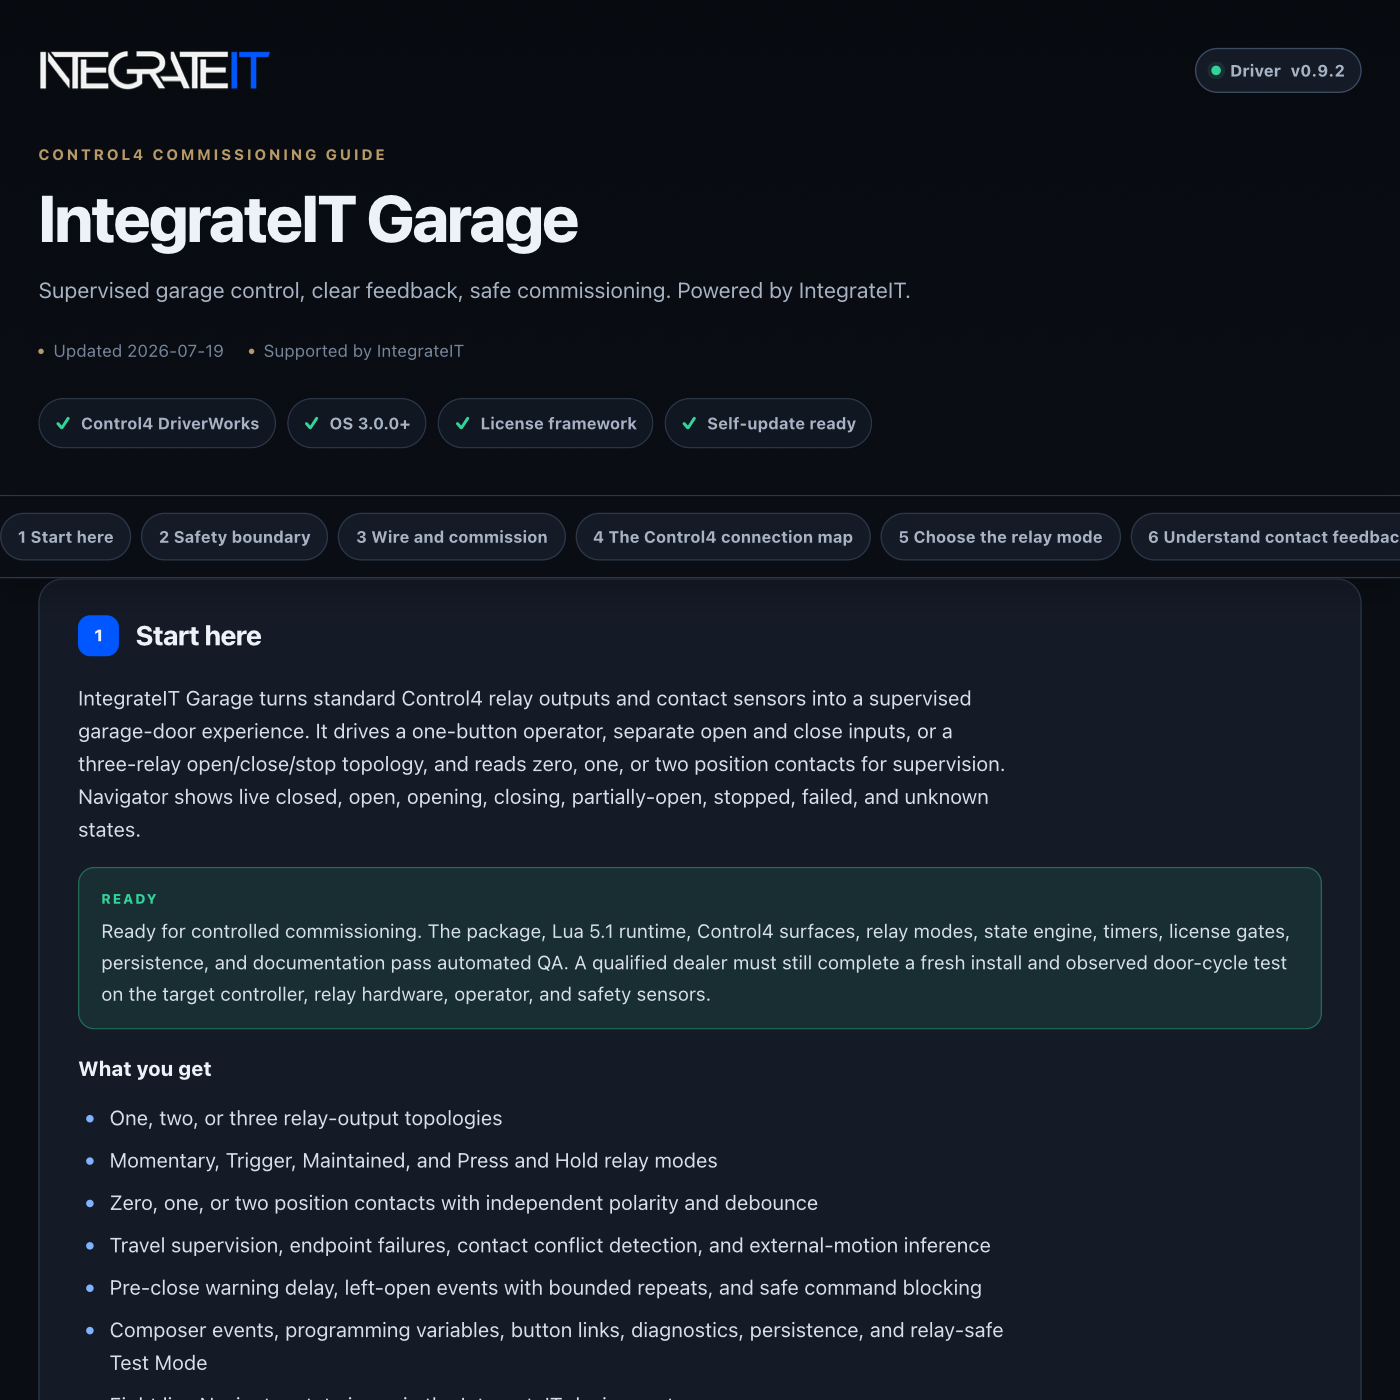
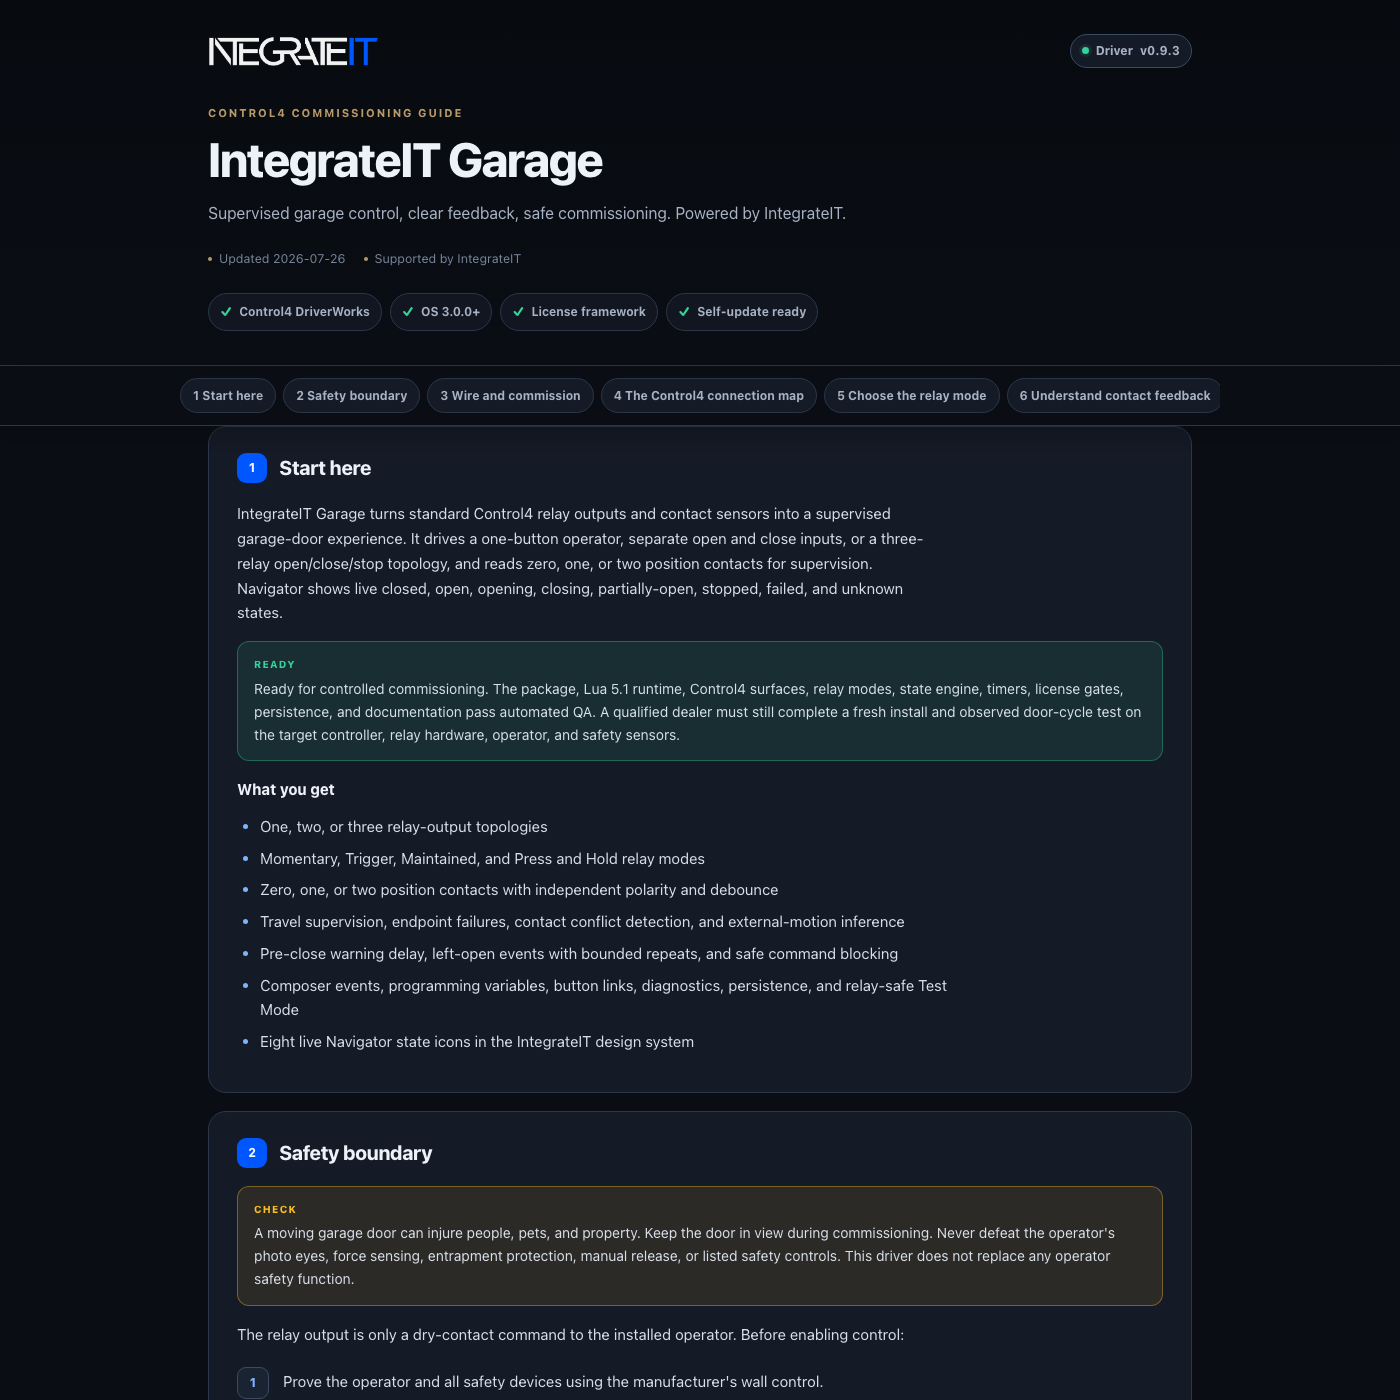
control4: publish driver channel (integrateit_garage 0.9.4)

diff --git a/control4/integrateit_garage/documentation.html b/control4/integrateit_garage/documentation.html
@@ -179,13 +179,13 @@ td code{white-space:normal}
     <div class="wrap">
       <div class="brandbar">
[1 lines of base64/hex data omitted]
-        <span class="version"><span class="word">Driver</span> v0.9.3</span>
+        <span class="version"><span class="word">Driver</span> v0.9.4</span>
       </div>
       <p class="eyebrow">Control4 commissioning guide</p>
       <h1>IntegrateIT Garage</h1>
       <p class="sub">Supervised garage control, clear feedback, safe commissioning. Powered by IntegrateIT.</p>
       <div class="meta">
-        <span>Updated 2026-07-26</span>
+        <span>Updated 2026-07-31</span>
         <span>Supported by IntegrateIT</span>
       </div>
       <div class="readiness" aria-label="Driver capabilities">
@@ -198,7 +198,7 @@ td code{white-space:normal}
   </header>
 
   <div class="toc-wrap">
-    <nav class="toc wrap" aria-label="Documentation sections"><a href="#overview">1 Start here</a><a href="#safety">2 Safety boundary</a><a href="#setup">3 Wire and commission</a><a href="#connections">4 The Control4 connection map</a><a href="#relays">5 Choose the relay mode</a><a href="#contacts">6 Understand contact feedback</a><a href="#programming">7 Program the project</a><a href="#supervision">8 Supervision and alerts</a><a href="#testing">9 Test without moving the door</a><a href="#status">10 Read status at a glance</a><a href="#troubleshooting">11 Troubleshoot methodically</a><a href="#trust">12 Ownership, privacy, and licensing</a><a href="#reference">R Reference</a><a href="#licensing">L Licensing</a><a href="#updates">U Automatic updates</a><a href="#changelog">V Version history</a></nav>
+    <nav class="toc wrap" aria-label="Documentation sections"><a href="#overview">1 Start here</a><a href="#safety">2 Safety boundary</a><a href="#setup">3 Wire and commission</a><a href="#connections">4 The Control4 connection map</a><a href="#relays">5 Choose the relay mode</a><a href="#contacts">6 Understand contact feedback</a><a href="#programming">7 Program the project</a><a href="#supervision">8 Supervision and alerts</a><a href="#testing">9 Test without moving the door</a><a href="#status">10 Read status at a glance</a><a href="#troubleshooting">11 Troubleshoot methodically</a><a href="#trust">12 Ownership, privacy, and licensing</a><a href="#reference">R Reference</a><a href="#licensing">L Licensing</a><a href="#updates">U Automatic updates</a><a href="#diagnostics">D Diagnostics and self-test</a><a href="#changelog">V Version history</a></nav>
   </div>
 
   <main class="wrap">
@@ -229,7 +229,7 @@ td code{white-space:normal}
     <li>Use <b>Test Mode</b> to validate programming and Navigator states without energizing any relay.</li>
     <li>Re-enable control only when the work area is clear and the installer can observe a complete cycle.</li>
   </ol>
-  <p>For an unattended close workflow, use the operator's approved warning and safety accessories. The driver's <b>Close Warning Delay</b> is an automation event and delay, not an audible or visual safety device by itself.</p>
+  <p>For an unattended close workflow, use the operator's approved warning and safety accessories. The driver's <b>Close Warning Delay (s)</b> is an automation event and delay, not an audible or visual safety device by itself.</p>
 </section>
 
 <section class="card" id="setup" data-card="setup">
@@ -267,7 +267,7 @@ td code{white-space:normal}
   <h2><span class="n">5</span> Choose the relay mode</h2>
   <table>
     <tr><th>Mode</th><th>Output behavior</th><th>Typical use</th></tr>
-    <tr><td><code>Momentary</code></td><td>Active command, then release after Pulse Length</td><td>Most wall-button and dry-contact inputs</td></tr>
+    <tr><td><code>Momentary</code></td><td>Active command, then release after <b>Pulse Length (ms)</b></td><td>Most wall-button and dry-contact inputs</td></tr>
     <tr><td><code>Trigger</code></td><td>Control4 <code>TRIGGER</code> with exact <code>TIME</code> in milliseconds</td><td>Native Control4 relay pulse</td></tr>
     <tr><td><code>Maintained</code></td><td>Holds or releases the direction output</td><td>Operators that explicitly require maintained contacts</td></tr>
     <tr><td><code>Press and Hold</code></td><td>Active command, then release after 1 to 120 seconds</td><td>Interfaces that require an extended button press</td></tr>
@@ -317,15 +317,15 @@ td code{white-space:normal}
   <ul>
     <li>When <b>Garage Door Left Open</b> fires → announce on the kitchen touch screen and turn on the driveway lights; read <code>Left Open Notices</code> to escalate only on a repeat.</li>
     <li>When <b>Garage Door Opened</b> fires and <code>IS_MOVING</code> is false → run a "someone's home" scene once the door has settled.</li>
-    <li>On a "Goodnight" event → call <b>Close Garage Door</b>. With <b>Close Warning Delay</b> set, <b>Garage Close Warning</b> fires first, so a chime or light can run before the door actually moves.</li>
+    <li>On a "Goodnight" event → call <b>Close Garage Door</b>. With <b>Close Warning Delay (s)</b> set, <b>Garage Close Warning</b> fires first, so a chime or light can run before the door actually moves.</li>
   </ul>
 </section>
 
 <section class="card" id="supervision" data-card="supervision">
   <h2><span class="n">8</span> Supervision and alerts</h2>
-  <p><b>Expected Open Time</b> and <b>Expected Close Time</b> supervise every commanded or inferred movement. An endpoint contact ends supervision immediately. At timeout, the driver either estimates an unobserved endpoint or fires a failure event when the configured contacts should have proved it.</p>
-  <p><b>Left Open Time</b> starts when the state leaves Closed. Set it to zero to disable. <b>Left Open Repeat Count</b> adds a bounded number of notices at the same interval. Returning to Closed cancels the timer and resets the count.</p>
-  <p><b>Close Warning Delay</b> fires <b>Garage Close Warning</b>, waits the configured seconds, then issues the close output. Open, Stop, Integration disable, Test Mode, or a new close request cancels or replaces a pending warning. The door does not enter Closing until the relay command is actually sent.</p>
+  <p><b>Expected Open Time (s)</b> and <b>Expected Close Time (s)</b> supervise every commanded or inferred movement. An endpoint contact ends supervision immediately. At timeout, the driver either estimates an unobserved endpoint or fires a failure event when the configured contacts should have proved it.</p>
+  <p><b>Left Open Time (mins)</b> starts when the state leaves Closed. Set it to zero to disable. <b>Left Open Repeat Count</b> adds a bounded number of notices at the same interval. Returning to Closed cancels the timer and resets the count.</p>
+  <p><b>Close Warning Delay (s)</b> fires <b>Garage Close Warning</b>, waits the configured seconds, then issues the close output. Open, Stop, Integration disable, Test Mode, or a new close request cancels or replaces a pending warning. The door does not enter Closing until the relay command is actually sent.</p>
 </section>
 
 <section class="card" id="testing" data-card="testing">
@@ -362,7 +362,7 @@ td code{white-space:normal}
     <tr><td>No relay command</td><td>Integration disabled, Test Mode on, Strict unlicensed, invalid configuration, or already at endpoint</td><td>Read Garage Status, Last Error, and License Status</td></tr>
     <tr><td>Relay moves opposite direction</td><td>Relay topology or operator input is wrong</td><td>Disable Integration, inspect bindings, then test under observation</td></tr>
     <tr><td>Contact state is backward</td><td>Wrong active-state polarity</td><td>Change the matching contact active-state property</td></tr>
-    <tr><td>State chatters</td><td>Mechanical bounce or unstable wiring</td><td>Repair wiring and increase Contact Debounce modestly</td></tr>
+    <tr><td>State chatters</td><td>Mechanical bounce or unstable wiring</td><td>Repair wiring and increase <b>Contact Debounce (ms)</b> modestly</td></tr>
     <tr><td>Failed to Open or Close</td><td>Expected contact was not reached in time</td><td>Observe travel, inspect contact alignment, and set a realistic expected time</td></tr>
     <tr><td>Sensor Conflict</td><td>Both endpoint contacts are active</td><td>Disable control and correct sensor placement or polarity</td></tr>
     <tr><td>Stop is blocked</td><td>Two momentary direction outputs have no stop input</td><td>Add and configure the third relay, or use the operator's approved stop method</td></tr>
@@ -380,7 +380,7 @@ td code{white-space:normal}
   <p>Lenient mode allows commissioning without an activated key and keeps the License Status visible. Strict mode blocks all driver control until the Ops Portal has minted and validated a key for that controller. Installing this package does not itself mint or activate a controller license.</p>
 <section class="card" id="reference" data-card="reference">
   <h2><span class="n">R</span> Reference</h2>
-  <p>Generated from the driver manifest at build time — always matches this build (v0.9.3).</p>
+  <p>Generated from the driver manifest at build time — always matches this build (v0.9.4).</p>
   <h3>Properties</h3>
   <table>
     <tr><th>Property</th><th>Type</th><th>Default</th><th>Description</th></tr>
@@ -452,6 +452,8 @@ td code{white-space:normal}
     <tr><td>Activate License Now <span class="pill blue">shared</span></td><td><code>ACTIVATE_LICENSE</code></td></tr>
     <tr><td>Check for Update Now <span class="pill blue">shared</span></td><td><code>CHECK_UPDATE</code></td></tr>
     <tr><td>Download &amp; Stage Update <span class="pill blue">shared</span></td><td><code>DOWNLOAD_UPDATE</code></td></tr>
+    <tr><td>Run Diagnostics <span class="pill blue">shared</span></td><td><code>RUN_DIAGNOSTICS</code></td></tr>
+    <tr><td>Run Self-Test <span class="pill blue">shared</span></td><td><code>RUN_SELF_TEST</code></td></tr>
   </table>
   <h3>Events</h3>
   <table>
@@ -518,10 +520,29 @@ td code{white-space:normal}
   moment a new build ships.</div>
 </section>
 
+<section class="card" id="diagnostics" data-card="diagnostics">
+  <h2><span class="n">D</span> Diagnostics and self-test</h2>
+  <p>Every IntegrateIT driver carries two read-only Actions for the field. <b>Run Diagnostics</b> prints
+  a report of what the driver has <i>already observed</i> — version and Lua runtime, license mode and
+  cached activation, update channel and any staged build, every armed timer with its interval, which
+  dealer-supplied properties are still empty, and the last few <code>Status</code> messages. It probes
+  nothing, sends nothing, and changes nothing, so it is safe on a live job.
+  <b>Run Self-Test</b> checks the shared layer itself — string and URL encoding, version comparison,
+  the non-finite number guard, the timer registry, and the persistence store — and ends with
+  <code>SELF-TEST PASS</code> or a per-check failure. It stays local: no network, no device commands.</p>
+  <div class="note">Neither Action is license gated, on purpose: you reach for them when a site is
+  broken, and the license may be the broken thing. Values are never printed — a key or secret is
+  reported only as <span class="pill blue">set</span> or <span class="pill amber">NOT SET</span>, so the
+  output is safe to paste into a support ticket. Both print to the Lua output window
+  (Composer &rarr; the driver's <b>Lua</b> tab).</div>
+</section>
+
     <section class="card" id="changelog" data-card="changelog">
   <h2><span class="n">V</span> Version history</h2>
   <div class="chg">
-    <div class="rel"><b>v0.9.3</b> <span class="pill green">current</span><span class="d">2026-07-26</span>
+    <div class="rel"><b>v0.9.4</b> <span class="pill green">current</span><span class="d">2026-07-31</span>
+      <ul><li>Certification pass: this driver was read end to end against its own manifest and code — every command, action, event, variable and property name checked for a single spelling across the manifest, the code and this guide; every programming recipe rebuilt from names that actually exist; the commissioning path checked to end in something a dealer can observe; and every claim in the documentation verified against what the code does rather than what it intended.</li></ul></div>
+    <div class="rel"><b>v0.9.3</b><span class="d">2026-07-26</span>
       <ul><li>Documentation rebuilt to the IntegrateIT commissioning-guide standard: uniform sections, honest contracts, verified claim-by-claim against the code.</li></ul></div>
     <div class="rel"><b>v0.9.2</b><span class="d">2026-07-19</span>
       <ul><li>Hardware-test-worthy polish: correctness, edge-case, timer-hygiene and hardware-readiness fixes with a regression test added per fix</li><li>Shared runtime: a transient license-server error no longer de-licenses a paying controller; repeating-timer callbacks are crash-guarded</li></ul></div>

diff --git a/control4/integrateit_garage/CHANGELOG.md b/control4/integrateit_garage/CHANGELOG.md
@@ -1,5 +1,8 @@
 # Changelog: IntegrateIT Garage
 
+## [0.9.4] - 2026-07-31
+- Certification pass: this driver was read end to end against its own manifest and code — every command, action, event, variable and property name checked for a single spelling across the manifest, the code and this guide; every programming recipe rebuilt from names that actually exist; the commissioning path checked to end in something a dealer can observe; and every claim in the documentation verified against what the code does rather than what it intended.
+
 ## [0.9.3] - 2026-07-26
 - Documentation rebuilt to the IntegrateIT commissioning-guide standard: uniform sections, honest contracts, verified claim-by-claim against the code.
 
